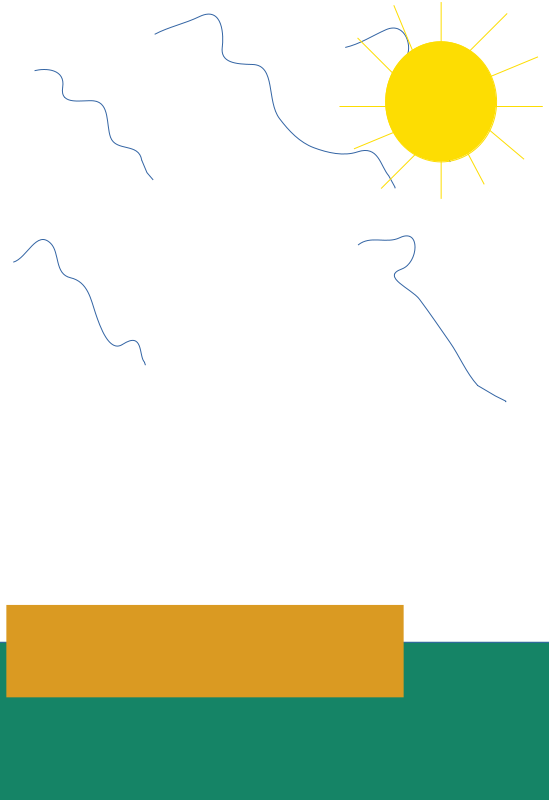
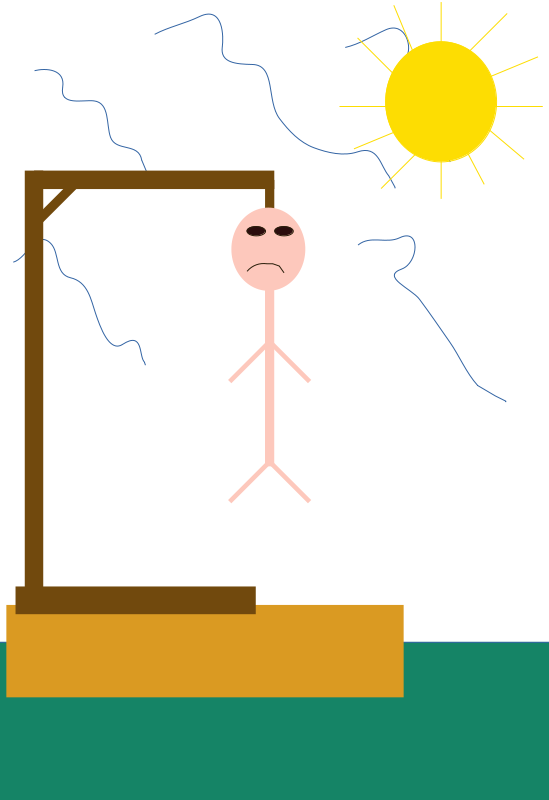
Renamed all hangman images and images work on tries variable change

diff --git a/assets/js/script.js b/assets/js/script.js
@@ -3,7 +3,6 @@ import { names } from "./names.js";
 import { increase, decrease } from "./utils";
 
 // global variables
-let numberOfTries = 10;
 let timer;
 
 // wait for the document to load then run starting functions
@@ -42,7 +41,7 @@ document.addEventListener("DOMContentLoaded", function () {
         (element) => element.toLowerCase() === event.key.toLowerCase(),
       )
         ? increase("scoring")
-        : decrease("scoring") || decrease("tries");
+        : decrease("scoring") || decrease("tries") || hangmanImages();
 
       // checks if key is in array using a map
       splitNameToArray.map((items, index) => {
@@ -63,7 +62,9 @@ document.addEventListener("DOMContentLoaded", function () {
  * generate the src attribute dynamically
  */
 function hangmanImages() {
-  let images = `assets/images/hangman/${10 - numberOfTries}.png`;
+  let tries = Number(document.getElementById("tries").innerHTML);
+
+  let images = `assets/images/hangman/${tries}.png`;
   let id = document.getElementById("hanging");
 
   id.setAttribute("src", images);
